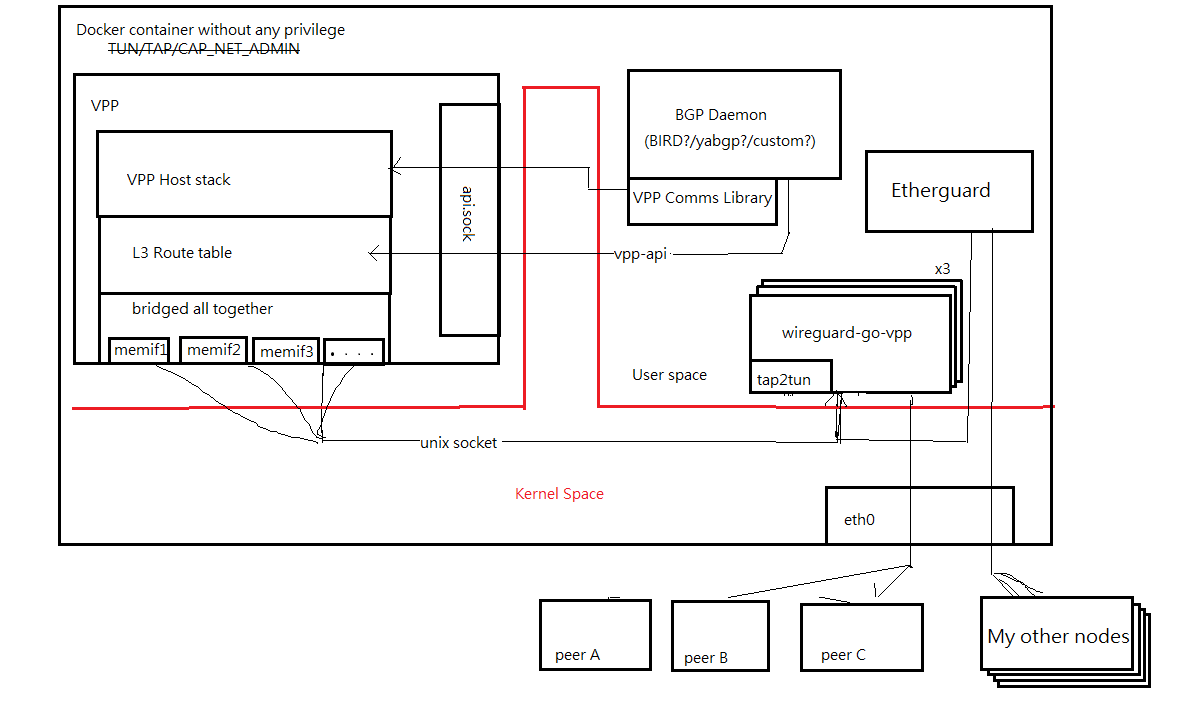
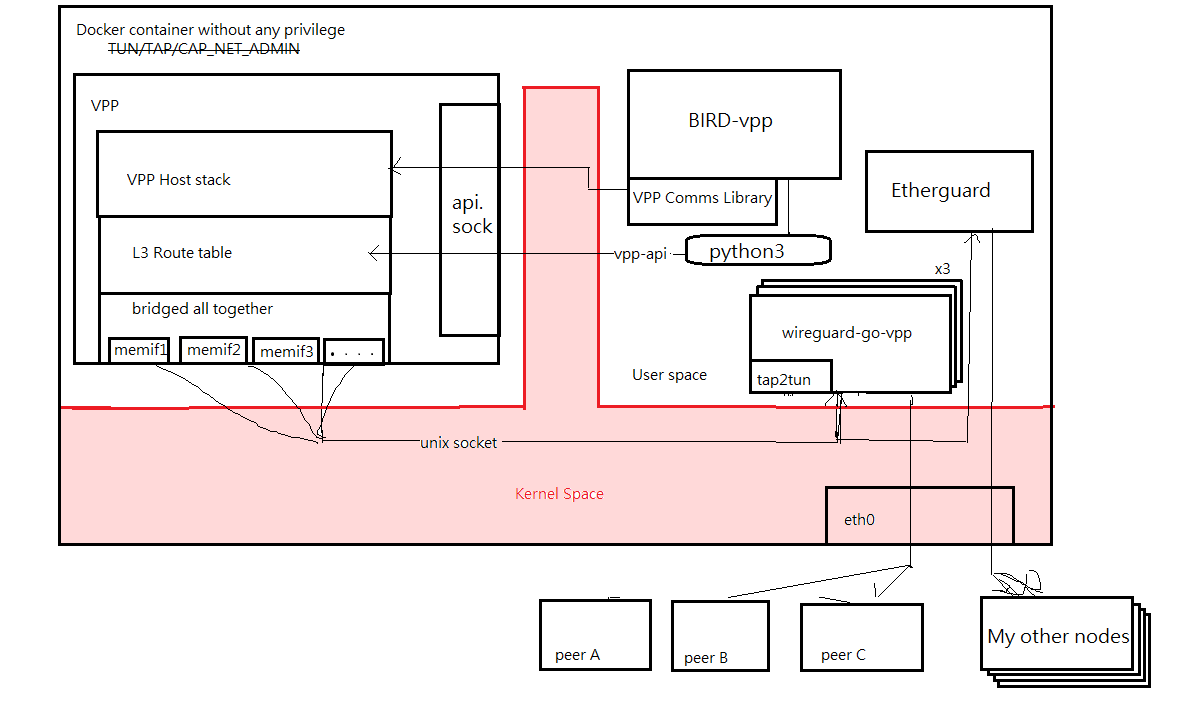
readme

Changed region(s): [[0.031, 0.1222, 0.8987, 0.7639], [0.5578, 0.3056, 0.7127, 0.3667], [0.3719, 0.2444, 0.4028, 0.3361]]

diff --git a/README.md b/README.md
@@ -1,0 +1,22 @@
+# RootlessRouter
+
+This is a WIP project called "Rootless Router". 
+
+It can establish multiple wireguard sessions with other DN42 players, but all the stacks can run as a normal user without root / in an unprivileged docker container.
+This program receives `wireguard encrypted udp packet` -> `decrypt it` -> `do bgp routing` -> `encrypt` -> `send to another peer`, all processes are done in the userspace.
+
+The host OS can only see this app receives and sends udp packets, but doesn't know it established multiple BGP sessions to other people and routing for it.
+
+Based on my current plan, the software stack of my nodes are looks like this:
+![Node](https://raw.githubusercontent.com/KusakabeSi/RootlessRouter/main/pics/Node.png)
+
+As you can see, there are no componient are running in the kernel. 
+
+I will host multiple node to form a cluster, like this
+![Node](https://raw.githubusercontent.com/KusakabeSi/RootlessRouter/main/pics/Overview.png)
+
+There are some my projects are related to this project:
+
+1. https://github.com/KusakabeSi/BIRD-vpp
+2. https://github.com/KusakabeSi/wireguard-go-vpp
+3. https://github.com/KusakabeSi/EtherGuardVPN
